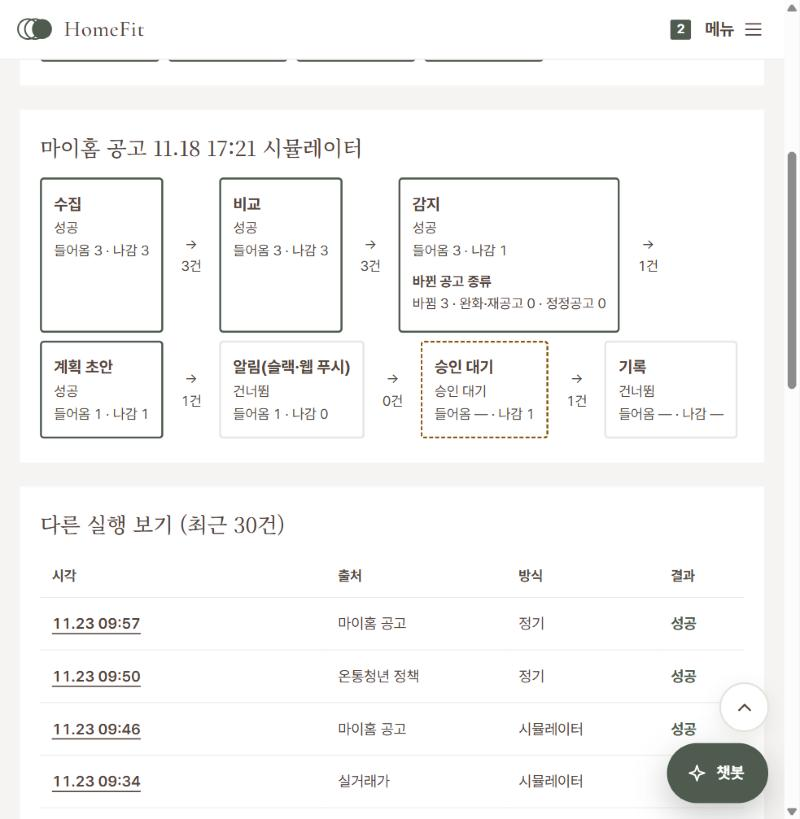
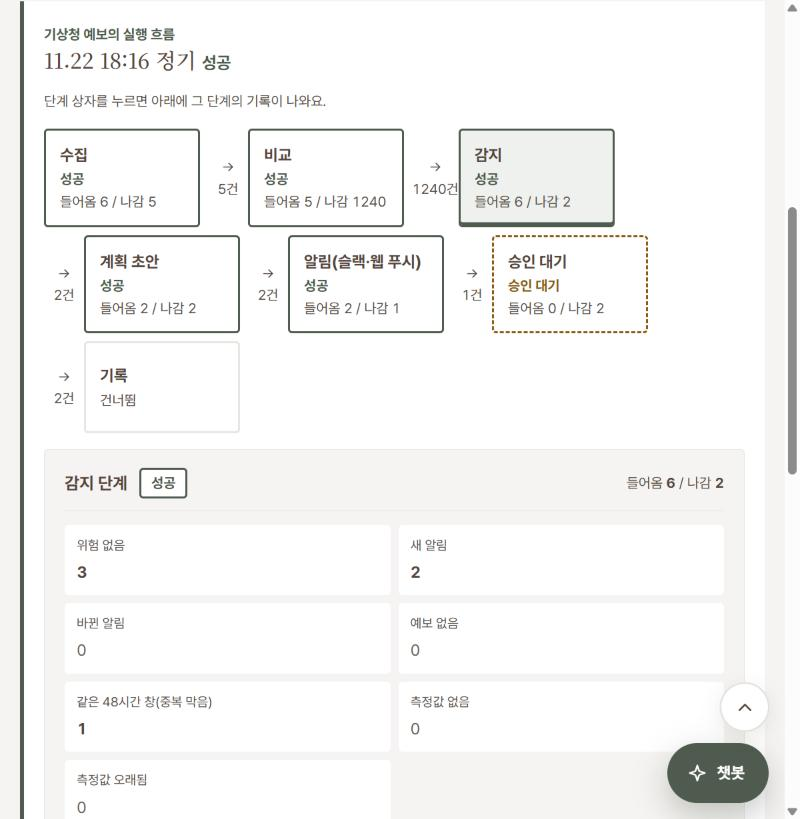
docs: 흐름 화면 캡처 4장을 PR #52 화면으로 다시 찍고 flow.md v0.6 (조각 C1)
- 화면이 최근 30건만 열 수 있어 11-18 실행 대신 30건 안의 실행으로 바꿈
  - 성공: 마이홈 11.23 13:46 정기 / 승인 대기·상세: 기상청 11.22 18:16 정기
  - 실패: 마이홈 11.20 09:01 시뮬레이터(그대로, 쉬운 오류 문장 보임)
- 1절: 시작 상자 누르기, 단계 기록 칸, 더 보기, 실패만 거르기, 30건 밖 주소
- 4절: 쉬운 오류 문장(friendlyRunError)과 원문 보기

diff --git a/docs/flow.md b/docs/flow.md
@@ -1,8 +1,8 @@
 # 흐름 화면
 
-- 상태: **초안 v0.5** (글과 화면 캡처 4장. 캡처는 2026-11-23 PR #47 새 디자인 운영 화면에서 다시 찍음. 안내서와 다른 점은 팀 결정 대기, 6절)
+- 상태: **초안 v0.6** (글과 화면 캡처 4장. 캡처는 2026-11-23 오후 PR #52 디자인 2차가 배포된 운영 화면에서 다시 찍음. 안내서와 다른 점은 팀 결정 대기, 6절)
 - 출처: 안내서 2절 "흐름 화면"·12절 제출 목록, 평가항목 P3-08, `docs/specs/005-관리자-시연-기록찾기/spec.md` FR-003
-- 기준일: 2026-11-19 (글은 main `1ec8b1f`·PR #16까지). 알림 단계는 PR #44(2026-11-20), 캡처와 5.5절은 PR #47 새 디자인 운영 화면(2026-11-23)에 맞췄다. 이 문서는 **코드와 캡처에서 확인한 것만** 적는다. 화면은 5절 네 장면을 운영에서 관리자 가상 계정으로 열어 보고 감지 상자 하나를 눌러 본 것까지다.
+- 기준일: 2026-11-19 (글은 main `1ec8b1f`·PR #16까지). 알림 단계는 PR #44(2026-11-20), 캡처와 1절 표·4절 첫 줄·5절은 PR #47·#52 디자인이 배포된 운영 화면(2026-11-23 오후, main `e8050f7`)에 맞췄다. 이 문서는 **코드와 캡처에서 확인한 것만** 적는다. 화면은 5절 네 장면을 운영에서 관리자 가상 계정으로 열어 보고, 감지 상자 하나와 시작 상자·"실패만" 거르기를 눌러 본 것까지다.
 - 코드 위치: 흐름 정의·해석 `flow/graph.ts`, 화면 `app/(main)/admin/flow/`, 실행 기록 쓰기 `watch/run-log.server.ts`, 수집 `watch/collect*.server.ts`
 
 ## 1. 한눈에
@@ -12,11 +12,11 @@
 
 | 부분 | 보이는 것 |
 |---|---|
-| 시작 상자 | 출처마다 하나씩 4개. 그 출처의 가장 최근 실행 상태(성공·실패·아직 안 켜짐) |
-| 단계 흐름 | 고른 실행 하나의 단계 상자 7개와 화살표. 화살표 위에 넘어간 건수. 상자를 누르면 상세가 펼쳐짐 |
-| 다른 실행 보기 | 최근 30건. 시각, 출처, 시작 방식(정기·손으로·시뮬레이터), 결과. 줄을 누르면 위 그림이 그 실행으로 바뀜 |
+| 시작 상자 | 출처마다 하나씩 4개. 그 출처의 가장 최근 실행 상태(성공·실패·아직 안 켜짐). 누르면 그 출처의 가장 최근 실행으로 바뀌고, 지금 보는 출처 상자는 색이 채워지고 아래에 ▼ 표시가 붙는다(PR #52) |
+| 단계 흐름 | 고른 실행 하나의 단계 상자 7개와 화살표. 화살표 위에 넘어간 건수. 상자를 누르면 그림 아래 **단계 기록 칸**에 그 단계의 상세가 나온다(처음에는 수집 단계, PR #52) |
+| 다른 실행 보기 | 최근 30건. 시각, 출처, 시작 방식(정기·손으로·시뮬레이터), 결과. 줄을 누르면 위 그림이 그 실행으로 바뀜. 처음 10줄만 보이고 "더 보기"로 10줄씩 늘어난다. "전체 / 실패만 N"으로 실패한 실행만 거를 수 있다(주소 `&runs=failed`, PR #52) |
 
-주소 뒤에 `?run=<실행 ID>`가 붙어 새로고침해도 같은 실행이 보인다. 수집 현황 화면(`/admin/watch`)과 시뮬레이터 결과에서 이 주소로 바로 넘어온다.
+주소 뒤에 `?run=<실행 ID>`가 붙어 새로고침해도 같은 실행이 보인다. 다만 화면은 **최근 30건 안에서만** 그 ID를 찾으므로, 30건 밖으로 밀려난 실행의 주소를 열면 가장 최근 실행이 대신 보인다(`app/(main)/admin/flow/page.tsx`). 수집 현황 화면(`/admin/watch`)과 시뮬레이터 결과에서 이 주소로 바로 넘어온다.
 
 ## 2. 상자 목록
 
@@ -108,7 +108,7 @@
 ## 4. 실패했을 때
 | 무슨 일 | 기록 | 화면 |
 |---|---|---|
-| 출처 API 읽기 실패, 응답 모양이 깨짐 | 실행은 `failed`, `collect` 단계가 `failed`이고 상세에 오류. `runs.error_message`에 이유(키는 가림) | 수집 상자가 빨강 "실패", 뒤 상자는 "도달 못 함", 그림 아래에 **오류** 문구 |
+| 출처 API 읽기 실패, 응답 모양이 깨짐 | 실행은 `failed`, `collect` 단계가 `failed`이고 상세에 오류. `runs.error_message`에 이유(키는 가림) | 수집 상자가 빨강 "실패", 뒤 상자는 "도달 못 함". 단계 기록 칸에 오류(키는 가림), 그 아래에 **쉬운 오류 문장**(예: "외부 API에 연결하지 못했어요…", `flow/graph.ts`의 `friendlyRunError`, PR #52)과 "원문 보기" |
 | 저장 실패 등 중간 단계에서 오류 | 실행 전체가 `failed`. 이미 끝난 단계 기록은 그대로 두고, 실패 기록을 **`collect` 이름으로** 한 줄 더 남긴다(실패한 실제 단계 이름이 아님) | 수집 상자가 빨강 "실패"로 보일 수 있고, 그 뒤에 이미 끝난 단계는 "성공", 기록이 없는 단계는 "도달 못 함"으로 보인다. 어느 단계에서 났는지는 그림 아래 오류 문구로 구분해야 한다(6절 4번) |
 | 날씨에서 일부 시군구만 실패 | 실행은 계속. 실패한 곳은 수집 상세에 목록으로 | 수집 상자는 "성공", 상세에 "실패한 시군구"가 보임 |
 | 시세(실거래가)에서 일부 시군구·유형만 실패 | 읽은 곳은 끝까지 판단하고 `collect` 단계도 `succeeded`. 다만 **실행 전체는 `failed`**로 끝나고 `runs.error_message`에 "시군구·유형 N곳을 읽지 못했습니다(나머지는 판단함)"가 남는다(`watch/collect-rent.server.ts`의 `collectRent`) | 수집 상자는 "성공"인데 **시작 상자(실거래가)는 "실패"**로 보이고 그림 아래에 오류 문구가 나온다. 일부만 실패해도 "변화 없음"으로 끝내지 않으려는 것이다 |
@@ -126,34 +126,34 @@
 읽기에 실패하면 "변화 없음"이 아니라 수집 오류로 남는다. 일부러 실패시켜 보려면 시뮬레이터에서 `failure`나 `malformed` 묶음을 돌린다(`docs/demo-order.md` 장면 5).
 
 ## 5. 화면 캡처
-선우가 관리자 가상 계정으로 운영 화면에서 다시 찍었다(2026-11-23 오전, PR #47 새 디자인, 화면 폭 800픽셀). 5.1·5.2·5.4는 처음 캡처(2026-11-18)와 **같은 실행 기록**이고, 5.3은 2026-11-20 선우가 리허설로 돌린 마이홈 `failure` 실행으로 바꿨다(11-18 01:37 기상청 실패 실행은 화면의 "최근 30건" 밖으로 밀려나 고를 수 없었다). 이번 캡처를 위해 시뮬레이터를 새로 돌리지는 않았다. 키, 이메일, 실제 계정 정보는 보이지 않는다.
+선우가 관리자 가상 계정으로 운영 화면에서 다시 찍었다(2026-11-23 오후, PR #52 디자인 2차 배포 뒤, 화면 폭 800픽셀). 화면은 최근 30건 안의 실행만 열 수 있어(1절), 11-18 실행을 쓰던 5.1·5.2·5.4는 30건 안의 실행으로 바꿨다. 5.3은 앞판과 같은 11-20 실패 실행이다. 이번 캡처를 위해 시뮬레이터를 새로 돌리지는 않았다. 키, 이메일, 실제 계정 정보는 보이지 않는다.
 
 ### 5.1 성공한 실행 (정기 실행)
-![기상청 예보 정기 실행이 성공한 흐름 화면](img/flow/flow-success.png)
+![마이홈 공고 정기 실행이 성공한 흐름 화면](img/flow/flow-success.png)
 
-기상청 예보 11.18 18:16 정기. 시작 상자 4개가 모두 "성공"이다. 수집(들어옴 5, 나감 4) → 비교(4 → 992) → 감지(5 → 0)까지 진한 실선이고, 새 알림이 0건이라 계획 초안·알림(슬랙·웹 푸시)·승인 대기는 옅은 실선 "건너뜀"이다. 화살표 위에 넘어간 건수(4건, 992건, 0건)가 보인다.
+마이홈 공고 11.23 13:46 정기. 시작 상자 4개가 모두 "성공"이고, 보고 있는 "마이홈 공고" 상자가 채워져 있다. 수집(들어옴 320, 나감 245) → 비교(245 → 0) → 감지(245 → 0)까지 진한 실선이고, 새로 바뀐 공고가 0건이라 계획 초안·알림(슬랙·웹 푸시)·승인 대기·기록은 옅은 실선 "건너뜀"이다. 화살표 위에 넘어간 건수(245건, 0건)가 보인다. 아래 단계 기록 칸에는 수집 단계의 "읽지 못해 건너뜀 0, 중복 75"가 보인다(320 − 75 = 245).
 
-### 5.2 승인 대기에서 멈춘 모습 (시뮬레이터)
-![마이홈 공고 시뮬레이터 실행이 승인 대기에서 멈춘 흐름 화면](img/flow/flow-waiting.png)
+### 5.2 승인 대기에서 멈춘 모습 (정기 실행)
+![기상청 예보 정기 실행이 승인 대기에서 멈춘 흐름 화면](img/flow/flow-waiting.png)
 
-마이홈 공고 11.18 17:21 시뮬레이터. 수집(3 → 3) → 비교(3 → 3) → 감지(3 → 1) → 계획 초안(1 → 1)이 성공이고, 알림(슬랙·웹 푸시)은 보낼 사람이 없어 "건너뜀"(들어옴 1, 나감 0)이다. **승인 대기 상자가 주황 점선**으로 멈춰 있고 나감 1은 사람이 승인·거절할 사건 수다. 기록 상자는 "건너뜀"이다(6절 3번).
+기상청 예보 11.22 18:16 정기. 시뮬레이터가 아니라 **실제 정기 수집**이 사람 승인 앞에서 멈춘 모습이다. 수집(내 집 6 → 시군구 5) → 비교(5 → 1240) → 감지(6 → 2) → 계획 초안(2 → 2) → 알림(슬랙·웹 푸시)(2 → 1)까지 성공이고, **승인 대기 상자가 주황 점선**으로 멈춰 있다. 나감 2는 사람이 승인·거절할 알림 수다. 알림 나감 1은 알림을 켠 사람에게 보낸 수다. 기록 상자는 "건너뜀"이다(6절 3번). 앞판(11-18 마이홈 시뮬레이터)은 30건 밖으로 밀려나 바꿨다.
 
 ### 5.3 실패한 실행
 ![마이홈 공고 시뮬레이터 실행이 수집에서 실패한 흐름 화면](img/flow/flow-failed.png)
 
-마이홈 공고 11.20 09:01 시뮬레이터(`failure` 묶음). **수집 상자가 빨강 "실패"**이고 그림 아래에 오류 문구("fetch failed: https://apis.data.go.kr/x?serviceKey=***&pageNo=1")가 보인다. 오류 문구 속 **API 키가 `***`로 가려진 것**도 이 캡처에서 보인다. 뒤 상자 6개는 회색 점선 "도달 못 함"이다. 읽기 실패가 "변화 없음"이 아니라 수집 오류로 남는 모습이다.
+마이홈 공고 11.20 09:01 시뮬레이터(`failure` 묶음). **수집 상자가 빨강 "실패"**이고 뒤 상자 6개는 점선 "도달 못 함"이다. 단계 기록 칸의 오류("fetch failed: https://apis.data.go.kr/x?serviceKey=***&pageNo=1")에서 **API 키가 `***`로 가려진 것**이 보인다. 그 아래에 PR #52로 생긴 쉬운 오류 문장 "외부 API에 연결하지 못했어요. 잠시 뒤 다시 돌려 보고, 계속되면 API 상태와 인증키를 확인해 주세요."와 "원문 보기"가 있다. 읽기 실패가 "변화 없음"이 아니라 수집 오류로 남는 모습이다. 이 실행은 2026-11-23 오후 기준 최근 30건 중 25번째라, 실행이 더 쌓이면 화면에서 고를 수 없게 된다.
 
-### 5.4 상자를 펼친 상세
-![감지 상자를 펼쳐 변화 종류별 수가 보이는 흐름 화면](img/flow/flow-detail.png)
+### 5.4 상자를 누른 상세
+![감지 상자를 눌러 감지 단계 기록이 보이는 흐름 화면](img/flow/flow-detail.png)
 
-5.2와 같은 실행에서 감지 상자를 펼쳤다. 상세에 **"바뀐 공고 종류: 바뀜 3 · 완화·재공고 0 · 정정공고 0"**이 한국어로 보인다. 처음 캡처(PR #16 전)에는 `changes`, `{"changed":3,"relaxed":0,"correction":0}`처럼 영어·JSON 그대로였다. PR #16에서 이름표(`flow/graph.ts`의 `DETAIL_LABEL`)와 묶음 값 풀어 쓰기를 더한 결과다.
+5.2와 같은 실행에서 감지 상자를 눌렀다. 누른 상자가 채워지고, 그림 아래 단계 기록 칸이 "감지 단계"로 바뀐다. **위험 없음 3, 새 알림 2, 바뀐 알림 0, 예보 없음 0, 같은 48시간 창(중복 막음) 1, 측정값 없음 0, 측정값 오래됨 0**이 한국어로 보인다. 들어온 내 집 6곳이 위험 없음 3 + 새 알림 2 + 중복 막음 1로 나뉜 것이고, "같은 변화를 다시 읽어도 사건이 두 번 생기지 않는다"는 규칙이 화면에 숫자로 보인다. 이름표는 `flow/graph.ts`의 `DETAIL_LABEL`이다(PR #16 전에는 영어·JSON 그대로였다).
 
 ### 5.5 캡처에서 보이는 점
 - 알림 상자 이름은 "알림(슬랙·웹 푸시)"이다(선우가 2026-11-20 PR #44 리뷰에서 바꾸자고 했고 `d184ed4`로 반영).
-- PR #47 새 디자인에서 시각은 "11.18 18:16" 모양이고, 실행 목록 "다른 실행 보기(최근 30건)"는 표로 바뀌어 지금 보는 줄에 "보는 중"이 붙는다. 상자 설명 문장은 "시작 상자" 옆 ⓘ 안에 있다.
-- 찍는 동안 마이홈 정기 수집이 돌아 시작 상자 "마이홈 공고"가 잠깐 점선 "**실행 중**"으로 보였다(2026-11-23 09:57). 그 장면은 캡처에 넣지 않았고, 끝난 뒤 다시 찍었다.
-- 화면 폭 800픽셀에서는 단계 상자가 한 줄에 4개씩 두 줄로 놓이고, 위쪽 메뉴는 "메뉴" 단추 하나로 접힌다. 넓은 화면에서는 한 줄에 더 많이 놓인다.
-- 상태별 선 모양을 화면에서 확인했다(PR #47 새 색): 성공은 진한 실선, 실패는 빨강, 승인 대기는 주황 점선, 건너뜀은 옅은 실선, 도달 못 함은 점선, 실행 중은 점선. 오른쪽 아래 "챗봇" 단추가 상자를 가리지 않게 화면을 조금 내려서 찍었다.
+- 시각은 "11.22 18:16" 모양이다. 실행 목록은 표이고 처음 10줄 뒤 "더 보기 (10/30)"이 있다. "전체 / 실패만 2"에서 실패만 고르면 11-23 10:02와 11-20 09:01 두 줄만 남는다(2026-11-23 오후). PR #47 때 지금 보는 줄에 붙던 "보는 중" 글자는 없어졌다.
+- 시작 상자 설명은 "시작 상자" 옆 ⓘ 안에 있다(PR #52 문장: 가장 최근 실행의 결과, 누르면 그 출처의 흐름, 선 모양과 글자 표시). 시작 상자의 `?run=` 주소는 그 출처의 가장 최근 실행이다.
+- 화면 폭 800픽셀에서는 단계 상자가 한 줄에 3개씩 세 줄로 놓이고, 위쪽 메뉴는 "메뉴" 단추 하나로 접히며 아래로 내리면 숨는다. 넓은 화면에서는 한 줄에 더 많이 놓인다.
+- 상태별 선 모양을 화면에서 확인했다: 성공은 진한 실선, 실패는 빨강, 승인 대기는 주황 점선, 건너뜀은 옅은 실선, 도달 못 함은 점선. 오른쪽 아래 "챗봇"·"맨 위로" 단추가 상자를 가리지 않게 화면을 내려서 찍었다.
 - 키 값이 가려진 오류 문구(`serviceKey=***`)는 5.3 캡처에서 보인다. 상자 상세의 가림은 코드(3.5절)와 qa 005 C-504로 확인된다.
 
 ## 6. 안내서 기준과 다른 점 (팀이 정해 주세요)
@@ -173,6 +173,6 @@
 | 8 | (문서 사이) | spec 005 FR-003은 "시작 상자 3종"인데 코드는 4종(온통청년 포함) | spec 쪽을 맞추면 됨 |
 
 ## 7. 이 문서에서 확인하지 못한 것
-- 화면은 5절 네 장면(성공, 승인 대기, 실패, 상세)만 운영에서 직접 열어 봤다(2026-11-19, PR #47 뒤 2026-11-23 다시). 2.3절 표의 색 이름(초록·회색)은 PR #47 전 기준이고, 새 디자인에서는 진한·옅은 선으로 보인다(5.5절). 2.3절의 상태 표시와 4절의 수집 실패 모습은 화면과 맞았다. 그 밖의 경우(일부 시군구 실패, 슬랙 알림 실패, 중간 단계 실패, 4절 아래 "알아 둘 점" 세 가지)는 코드로만 읽었다.
+- 화면은 5절 네 장면(성공, 승인 대기, 실패, 상세)만 운영에서 직접 열어 봤다(2026-11-19, PR #47 뒤 2026-11-23 오전, PR #52 뒤 같은 날 오후 다시). 2.3절 표의 색 이름(초록·회색)은 PR #47 전 기준이다. PR #52의 ⓘ 설명도 "초록 실선·회색 점선"이라고 적지만, 화면에서는 진한 녹회색 선·옅은 선으로 보인다(5.5절). 2.3절의 상태 표시와 4절의 수집 실패 모습은 화면과 맞았다. 그 밖의 경우(일부 시군구 실패, 슬랙 알림 실패, 중간 단계 실패, 4절 아래 "알아 둘 점" 세 가지)는 코드로만 읽었다.
 - 승인·거절 뒤 흐름 화면이 어떻게 보이는지(6절 3번은 코드에서 "실행 기록을 고치는 곳이 없다"는 것으로 판단).
 - 색과 선 모양은 성공·실패·승인 대기·건너뜀·도달 못 함을 화면에서 확인했다(5.5절). "실행 중"(파랑 점선)과 "아직 안 켜짐"은 그 시각에 해당하는 실행이 없어 화면에서 보지 못했다.
